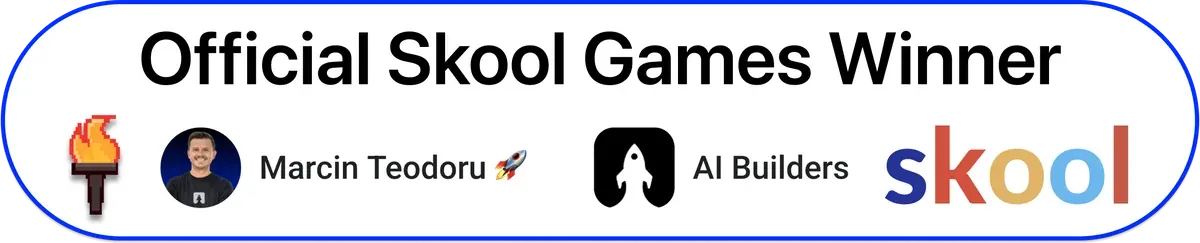
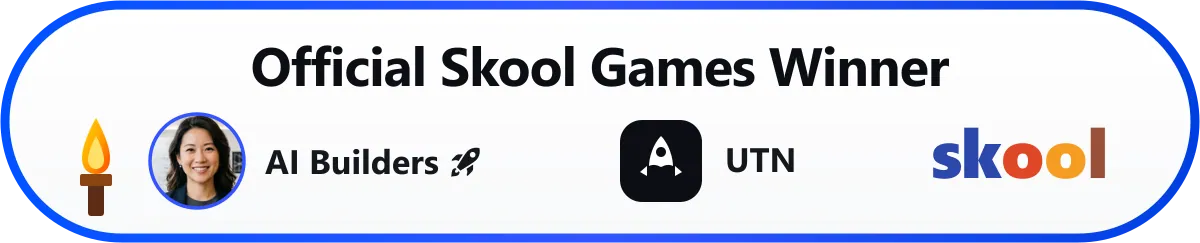
feat: update founder portrait and credibility badge assets

Changed region(s): [[0.0, 0.0, 1.0, 1.0], [0.0925, 0.1152, 0.8942, 0.3745], [0.4933, 0.4897, 0.7092, 0.8642]]

diff --git a/lib/content.ts b/lib/content.ts
@@ -83,7 +83,7 @@ export const whoFor = [
 export const founder = {
   name: "Marcin",
   photo: "/media/scenes/founder.webp",
-  photoAlt: "The founder with fellow builders at Skool Games",
+  photoAlt: "The founder holding the startup achievement award",
   badge: "/media/scenes/skool-badge.webp",
   bio: "I help people with zero coding experience build their own software and break free from the 9 to 5. We don’t waste time. We build. We launch. We learn by doing.",
   socials: [
